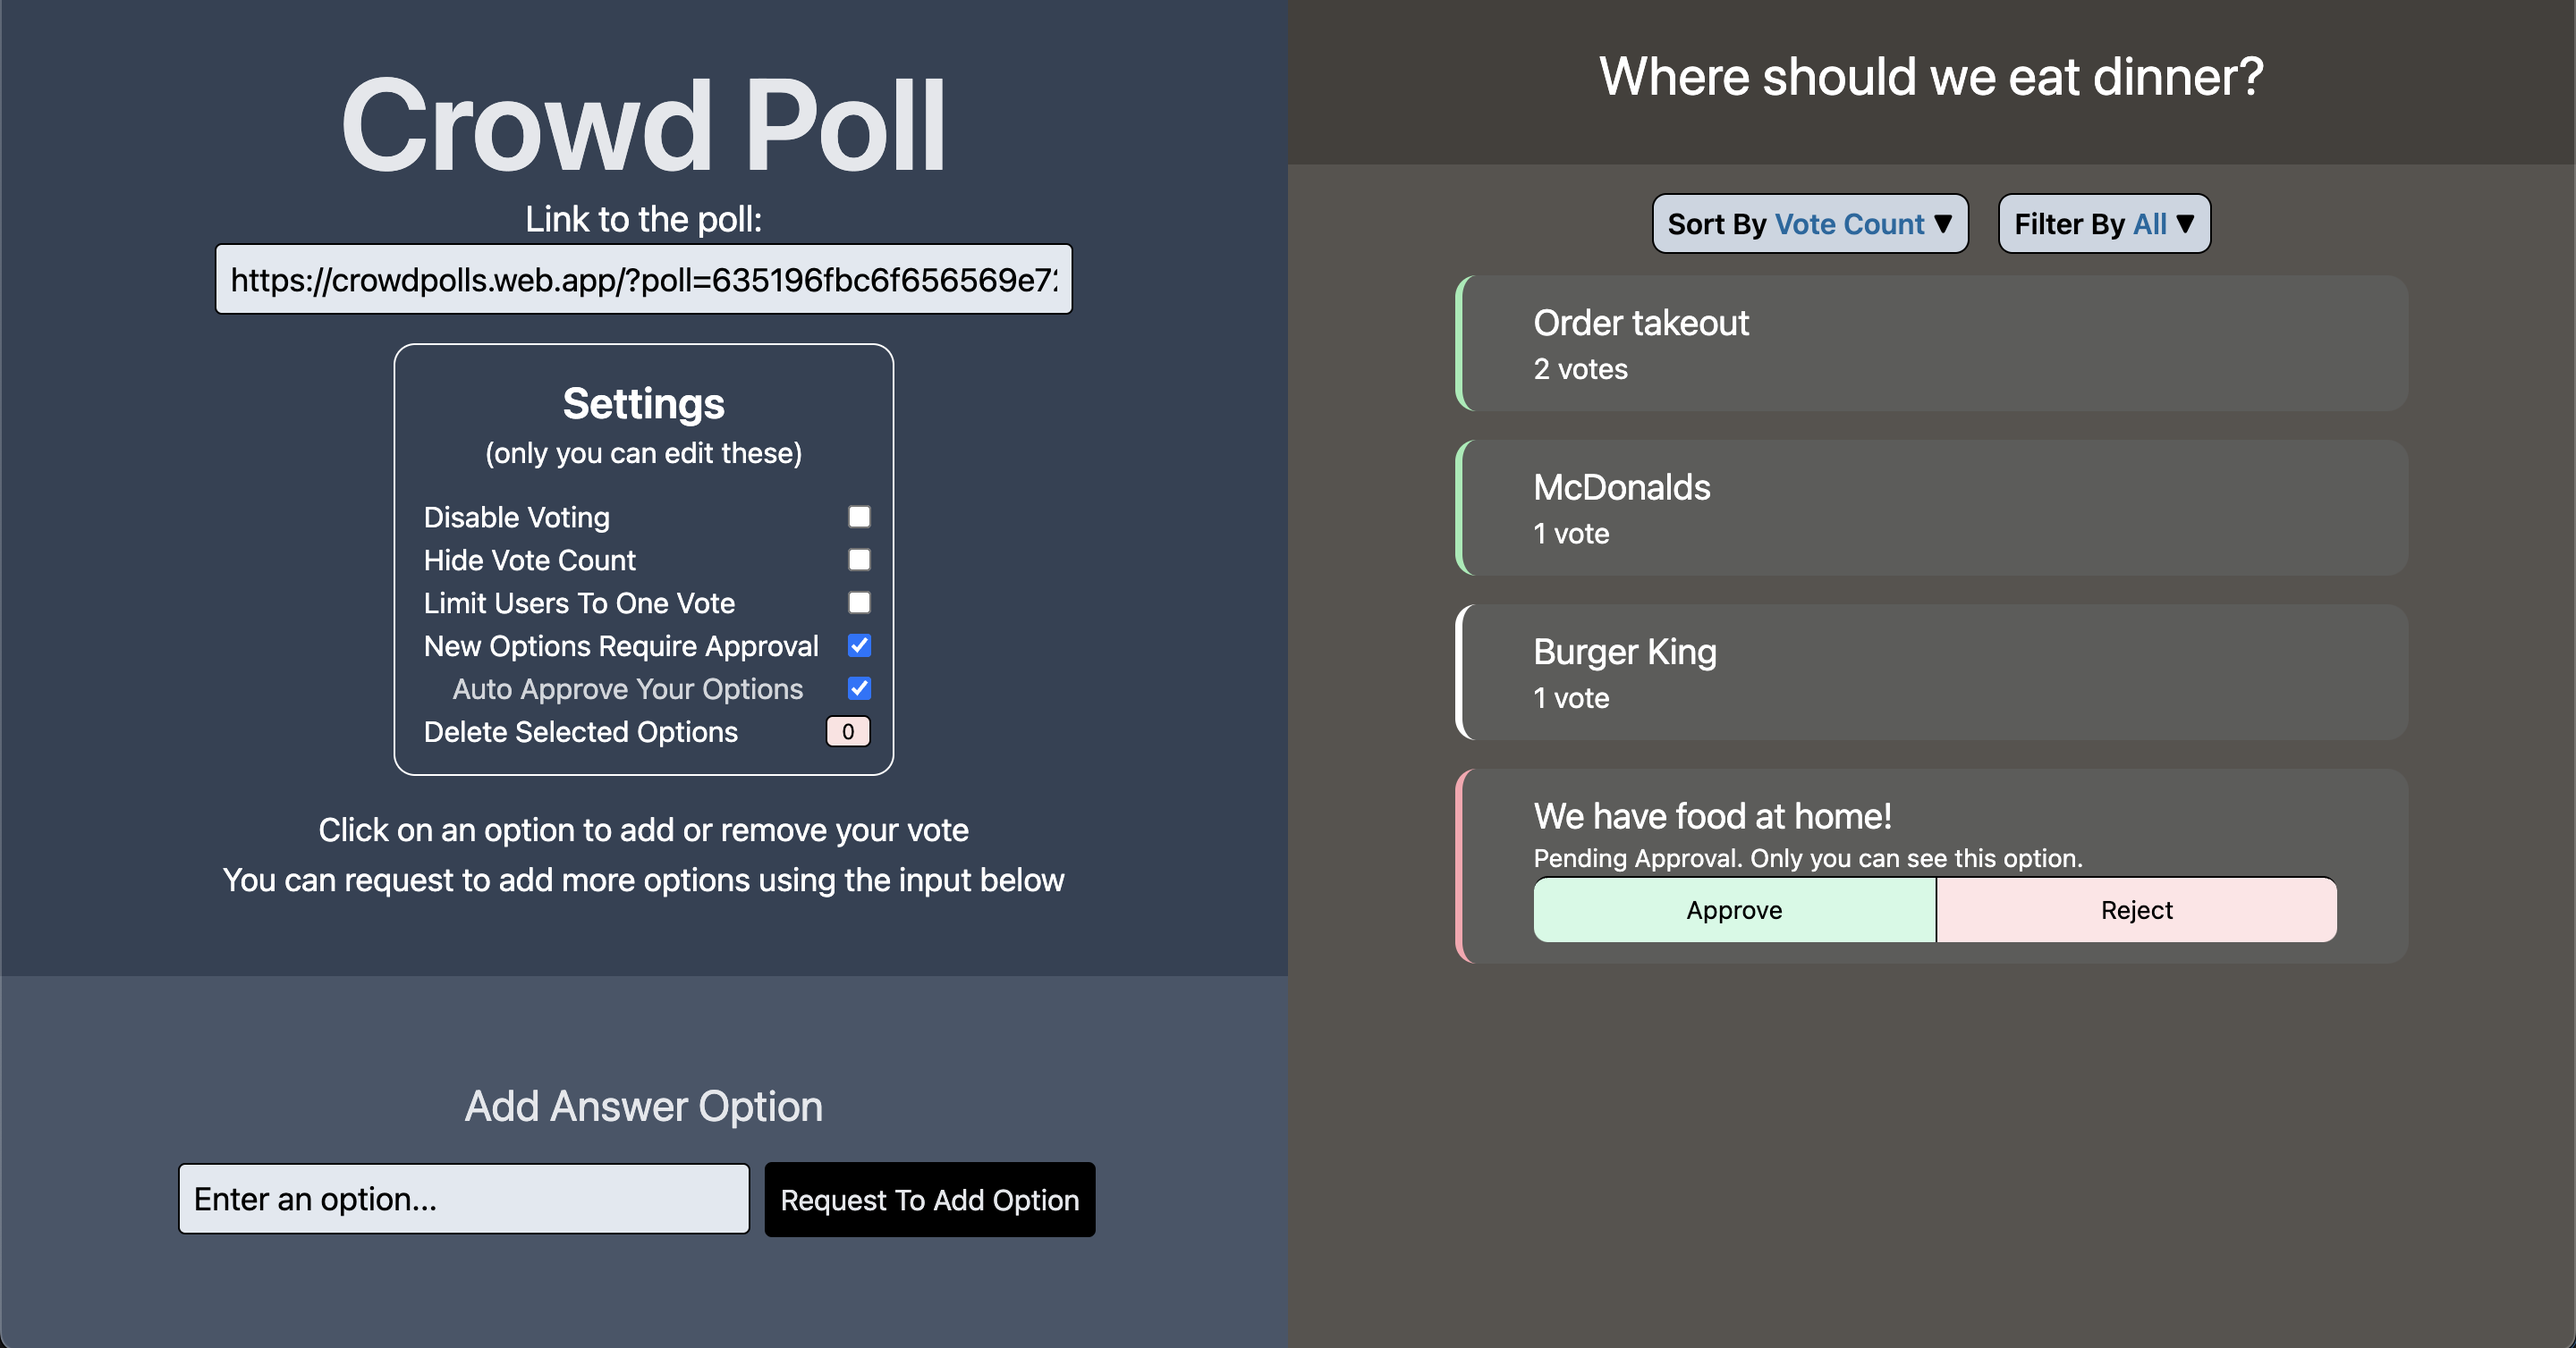
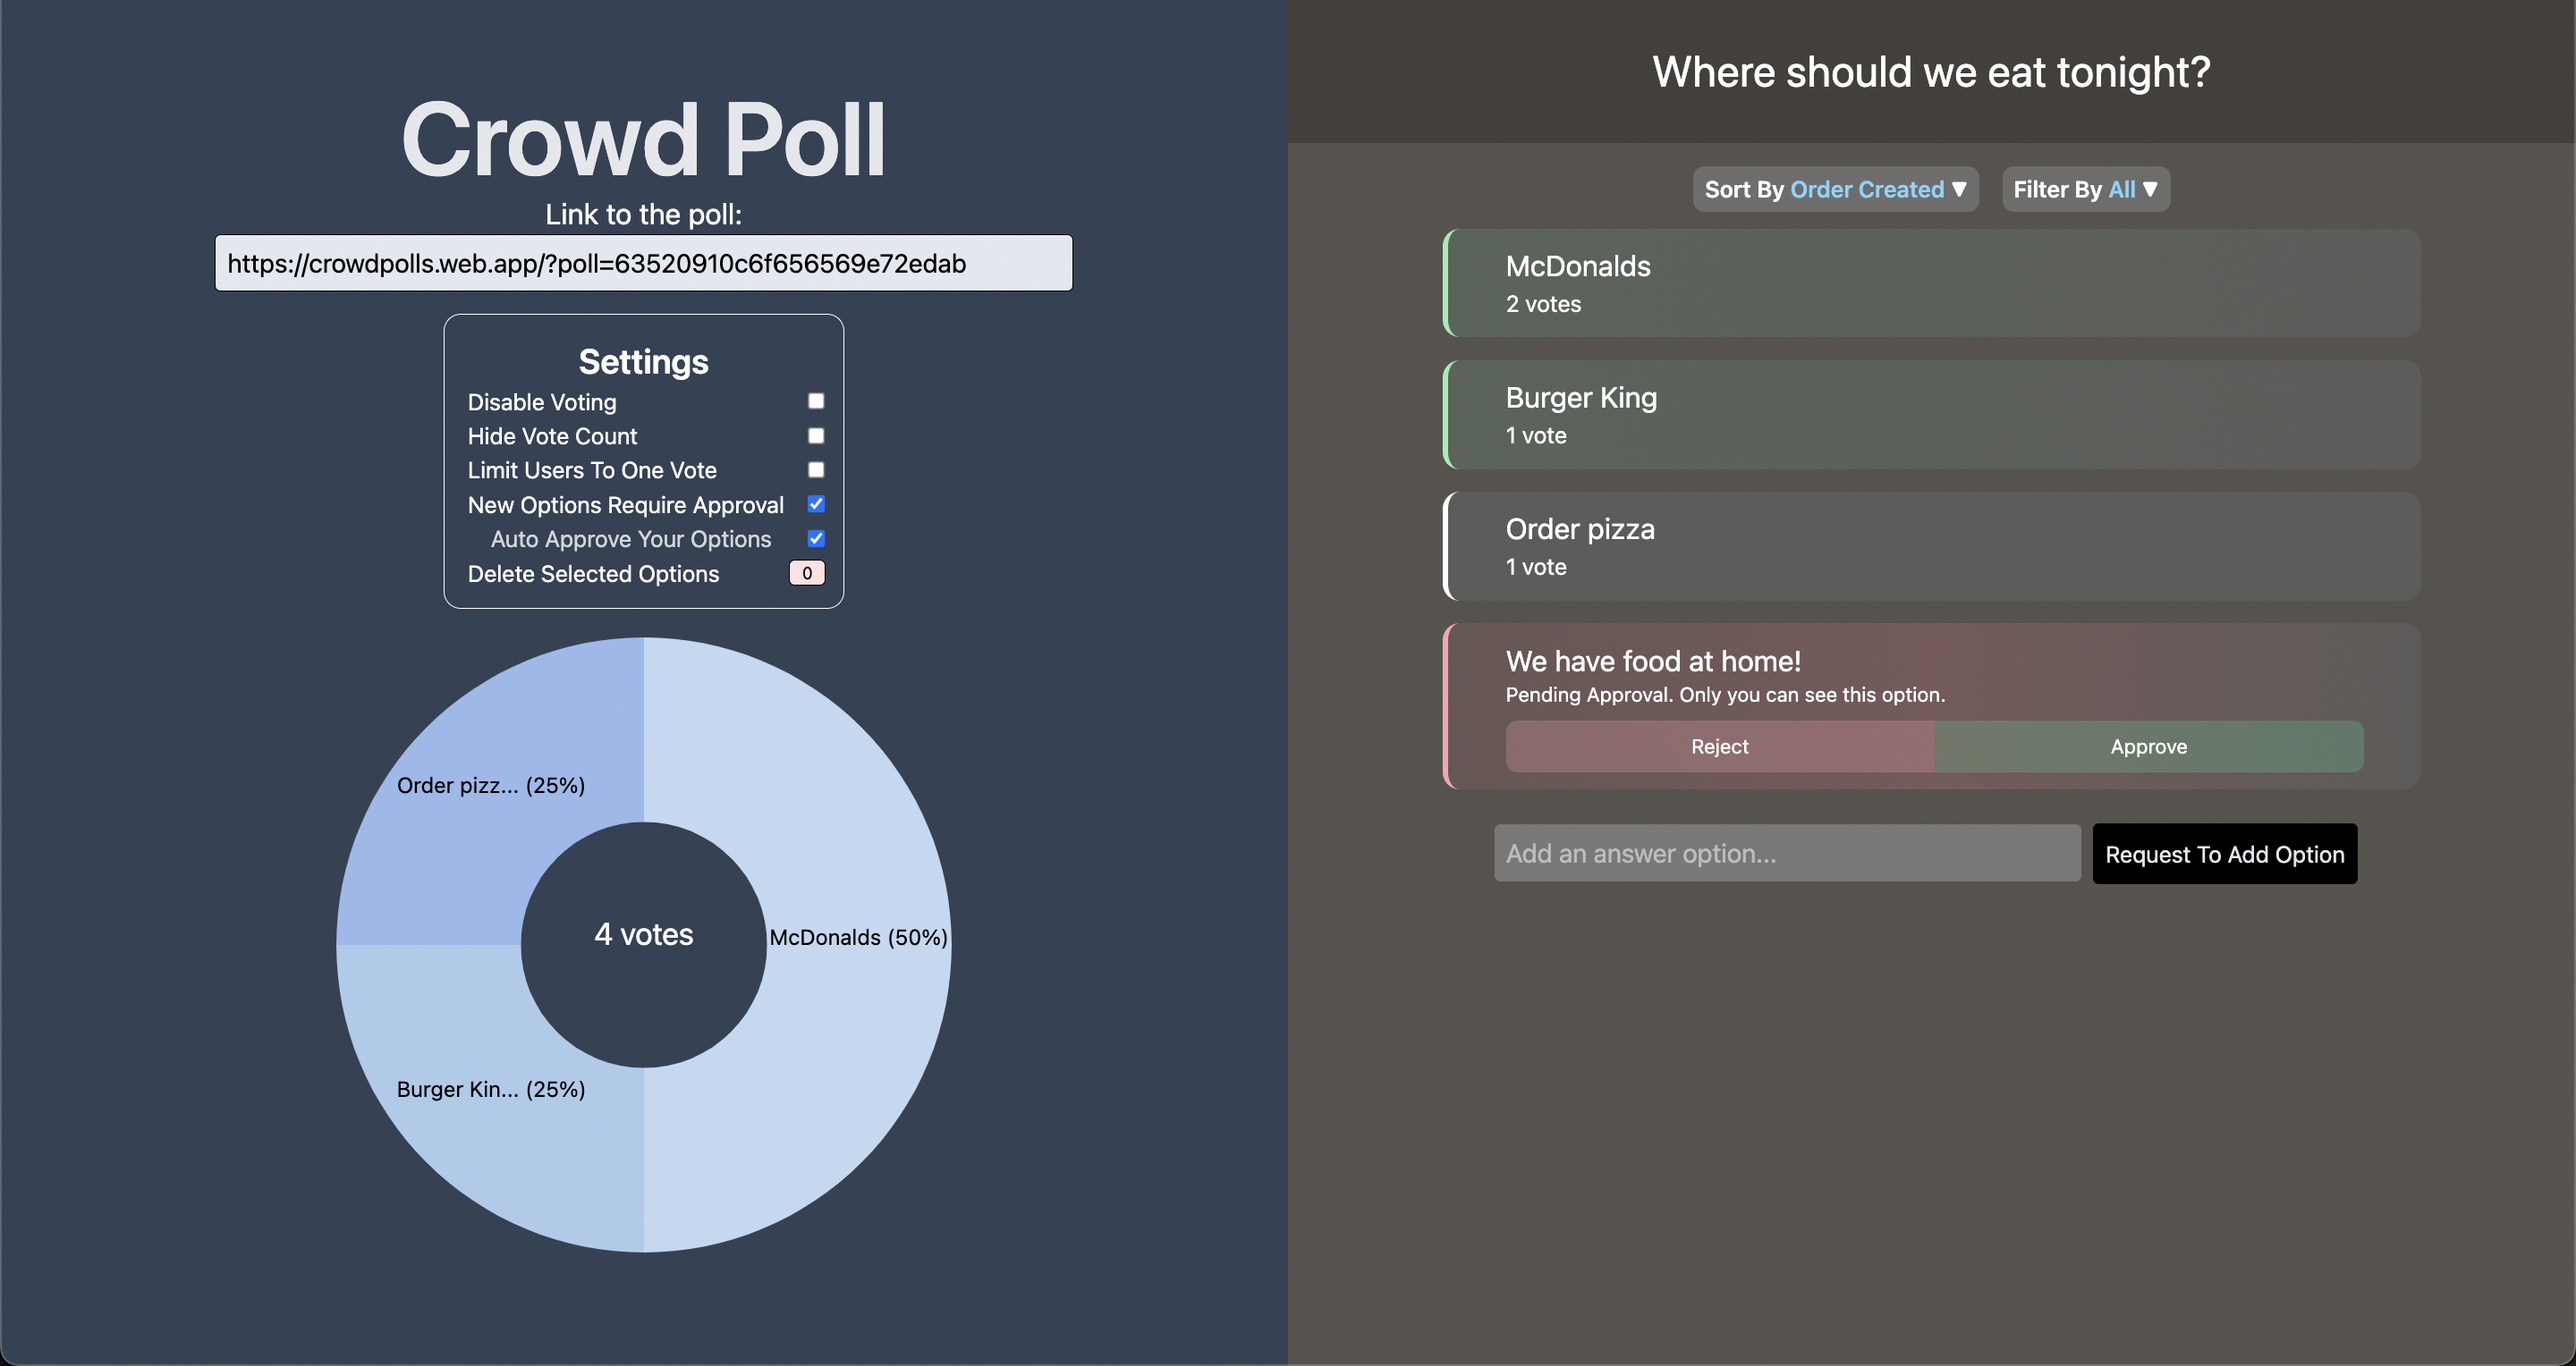
Change option approve/deny according to new theme

diff --git a/frontend/src/Option.js b/frontend/src/Option.js
@@ -109,7 +109,7 @@ function Option(props) {
     else
         return (
 
-            <div className={`w-5/6 mx-auto rounded-xl text-white border-l-4 border-rose-300 mb-4 grid items-center bg-slate-400/10 py-3`}>
+            <div className={`w-5/6 mx-auto rounded-xl text-white border-l-4 border-rose-300 mb-4 py-3 grid items-center bg-gradient-to-r from-rose-400/10 via-rose-400/20 to-slate-400/10`}>
 
                 <div className="text-xl px-10 w-full relative text-left">
                     {props.optionTitle}
@@ -118,13 +118,13 @@ function Option(props) {
                     {"Pending Approval. Only you can see this option."}
                 </div>
 
-                <div className="grid-row px-10 rounded-xl text-left text-black text-sm">
-                    <button onClick={() => { approveDenyOption(true) }} className="inline border-t border-t-black bg-emerald-100  w-1/2 px-3 py-2 rounded-l-lg">
-                        {"Approve"}
+                <div className="grid-row px-10 rounded-xl text-left text-sm mt-2">
+                    <button onClick={() => { approveDenyOption(false) }} className="inline bg-rose-300/25 text-white w-1/2 px-3 py-2 rounded-l-lg">
+                        {"Reject"}
                     </button>
 
-                    <button onClick={() => { approveDenyOption(false) }} className="inline border-t border-t-black border-l border-l-black bg-rose-100 w-1/2 px-3 py-2 rounded-r-lg">
-                        {"Reject"}
+                    <button onClick={() => { approveDenyOption(true) }} className="inline bg-emerald-400/25 text-white w-1/2 px-3 py-2 rounded-r-lg">
+                        {"Approve"}
                     </button>
 
 

diff --git a/frontend/src/misc/Statistics.js b/frontend/src/misc/Statistics.js
@@ -23,7 +23,7 @@ const Statistics = (props) => {
         return null;
 
     return (<div className="w-full p-5 h-fit mx-auto">
-            <svg className="w-3/5 h-fit mx-auto" viewBox="0 0 400 400" preserveAspectRatio="xMidYMid meet">
+            <svg className="w-1/2 h-full mx-auto" viewBox="0 0 400 400" preserveAspectRatio="xMidYMid meet">
                 <g transform="translate(200,200)">
                     <PieChart data={data} voteSum = {voteSum} setPieSelected = {props.setPieSelected} />
                 </g>
@@ -64,9 +64,9 @@ const PieChart = (props) => {
     return (
         <g>
             {arcs.map((d, i) => (
-                <g key={i} onMouseEnter = {() => {props.setPieSelected(d.data["_id"])}} onMouseLeave = {() => {props.setPieSelected(null)}}>
+                <g key={i} onMouseEnter = {() => {props.setPieSelected(d.data["_id"])}} onMouseLeave = {() => {props.setPieSelected(null)}} className = "cursor-crosshair">
                     <path d={arc(d)} fill={i === arcs.length - 1 && colors(i) === colors(0) ? colors(i + 1) : colors(i)} />
-                    <text transform={`translate(${labelArc.centroid(d)})`} textAnchor="middle" fill="black" fontSize="12px">{`${d.data.title} (${Math.round((d.data.votes / props.voteSum) * 100)}%)`}</text>
+                    <text transform={`translate(${labelArc.centroid(d)})`} textAnchor="middle" fill="black" fontSize="14px">{`${d.data.title} (${Math.round((d.data.votes / props.voteSum) * 100)}%)`}</text>
                 </g>
             ))}
 
